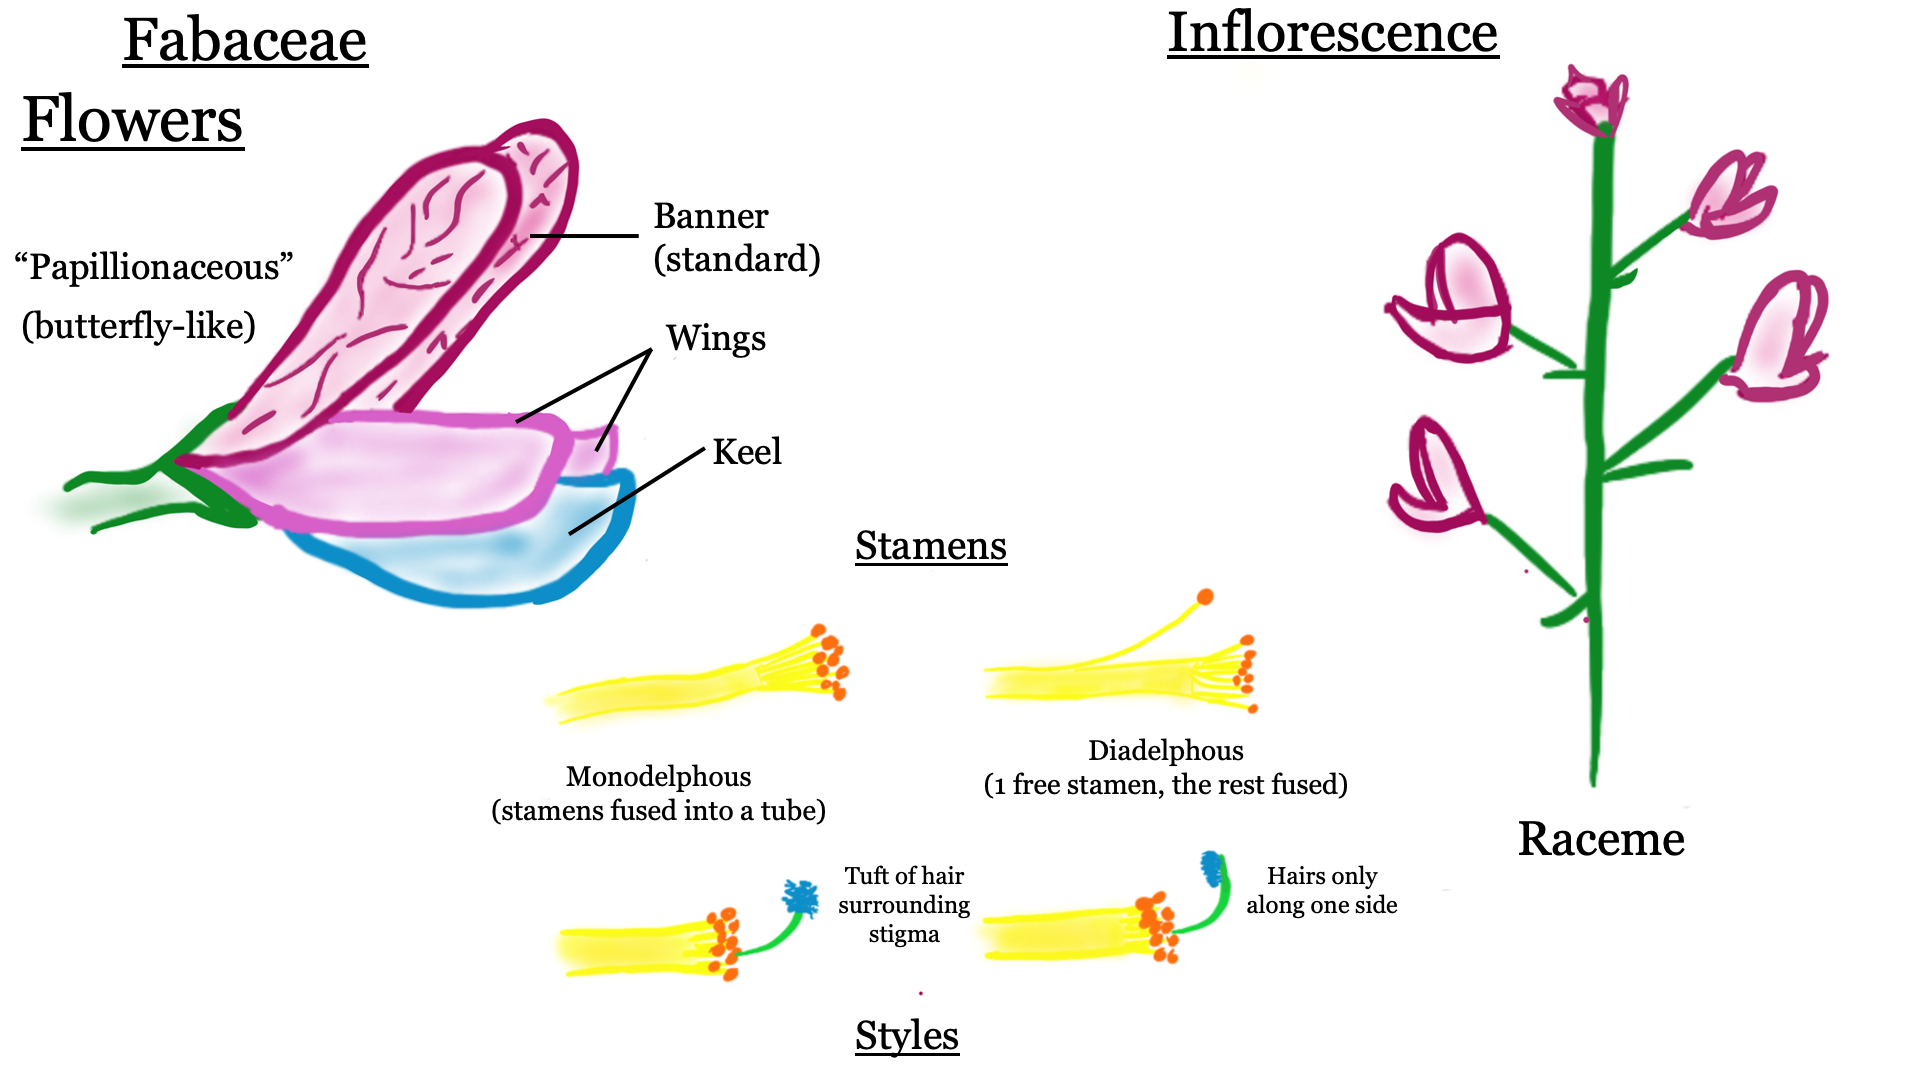
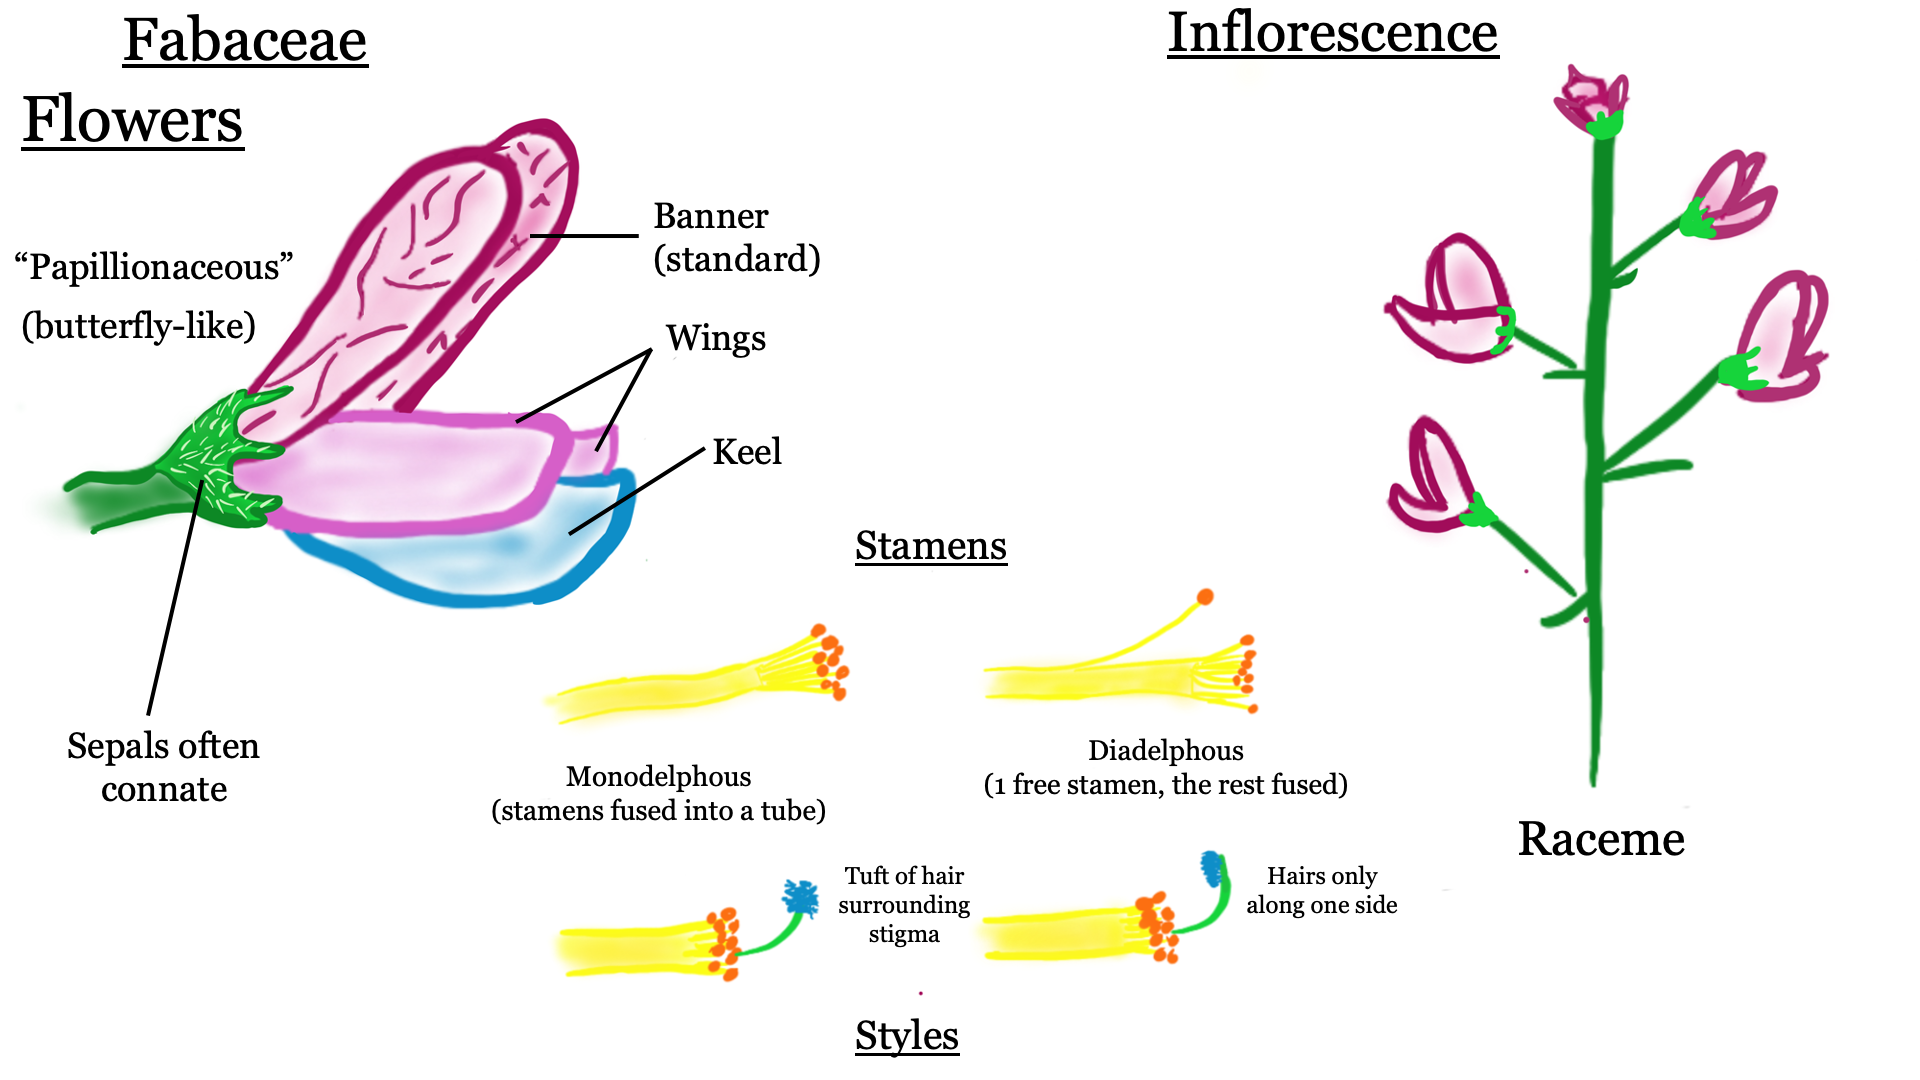
Small modifications to lab 4

diff --git a/docs/BIOL_324_Lab_4.html b/docs/BIOL_324_Lab_4.html
@@ -438,7 +438,7 @@ div.tocify {
 <img src="media/Fabaceae_1.jpeg" style="width:40.0%" /> <img src="media/Fabaceae_2.jpeg" style="width:40.0%" /> <img src="media/Fabaceae_3.jpeg" style="width:40.0%" /> <img src="media/Fabaceae_4.jpeg" style="width:40.0%" />
 </p>
 <p> </p>
-<p>Here are some more examples of papilionaceous flowers. While they all have banner, wing, and keel morphology, you can see that there is still quite a bit of variation amongst Fabaceae species. As you can see, the keel is quite often hidden from sight in between the wings.</p>
+<p>Here are some more examples of papilionaceous flowers (<em>Vicia</em> on the left, <em>Lathyrus</em> on the right). While they all have banner, wing, and keel morphology, you can see that there is still quite a bit of variation amongst Fabaceae species. As you can see, the keel is quite often hidden from sight in between the wings. Zoom in on <em>Vicia</em> sp. on the left - can you see the connate sepals hugging the bottom of the corolla?</p>
 <p align="center">
 <img src="media/Fabaceae_5.jpeg" style="width:40.0%" /> <img src="media/Fabaceae_7.jpeg" style="width:40.0%" /> <img src="media/Fabaceae_6.jpeg" style="width:40.0%" /> <img src="media/Fabaceae_8.jpeg" style="width:40.0%" />
 </p>
@@ -481,11 +481,15 @@ div.tocify {
 <img src="media/Fabaceae_24.jpeg" style="width:40.0%" /> <img src="media/Fabaceae_25.jpeg" style="width:40.0%" />
 </p>
 <p> </p>
+<p>Some genera produce “loments”, a modified legume that has crosswise segments (each containing one seed) that break off in pieces instead of dehiscing along two sutures like your typical legume. Below you can see photos of the loments of <em>Hedysarum hedysaroides</em> (left) and <em>Desmodium incanum</em> (right).</p>
+<p align="center">
+<img src="media/Fabaceae_26.jpg" style="width:40.0%" /> <img src="media/Fabaceae_27.jpg" style="width:40.0%" />
+</p>
 <hr />
 </div>
 <div id="knowledge-check-4.1-" class="section level2">
 <h2>-KNOWLEDGE CHECK 4.1-</h2>
-<p>Using the above pictures, draw a Fabaceae flower and fruit. Make sure to include the following:</p>
+<p>Using the above pictures, draw an representative Fabaceae flower and fruit (feel free to use your imagination). Make sure to include the following:</p>
 <ul>
 <li>Papilionaceous flower<br />
 </li>
@@ -493,7 +497,7 @@ div.tocify {
 </li>
 <li>Monodelphous or diadelphous stamens (label the type drawn)</li>
 <li>Legume (include a longitudinal section showing parts inside the fruit)</li>
-<li>Label your drawings with the following terms: banner, wing, keel, leaf, leaflet, petiole, rachis, tendrils (if present), ovary wall, seed, placenta, locule.</li>
+<li>Label your drawings with the following terms: sepals, banner, wing, keel, leaf, leaflet, petiole, rachis, tendrils (if present), ovary wall, seed, placenta, locule.</li>
 </ul>
 <p> </p>
 <hr />
@@ -577,11 +581,11 @@ div.tocify {
 </p>
 <p> </p>
 <hr />
-<p>Many members of the Rosaceae have drupes, defined as fruit where the fruit wall is made up of three layers: The outer skin (exocarp), middle fleshy bit (mesocarp), and the inner hard/woody shell (endocarp) that surrounds the seed. Some members of the family, like in the genus <em>Rubus</em> (blackberry), produce berries made up of dozens of tiny drupes, AKA an “aggregate of drupelets”.</p>
+<p>Many members of the Rosaceae have drupes, defined as fruit where the fruit wall is made up of three layers: The outer skin (exocarp), middle fleshy bit (mesocarp), and the inner hard/woody shell (endocarp) that surrounds the seed. Some members of the family, like in the genus <em>Rubus</em> (blackberry), produce “berries” made up of dozens of tiny drupes, AKA an “aggregate of drupelets”.</p>
 <p><img src="media/Rosaceae_28.png" style="width:100.0%" /></p>
 <p> </p>
 <hr />
-<p>A pome is a unique fruit type to the Rosaceae. A pome develops from a compound, inferior ovary and has seeds encased within a cartilaginous wall (known as the endocarp of the ovary), with most of the surrounding fleshy part of the fruit derived from the hypanthium, which is fused to the ovary. So when you chomp into a delicious apple, most of the tasty bits are actually hypanthium tissue instead of ovary wall like your typical fruit! Below you can see the pomes of <em>Pyrus</em> (apple and pear - top) and <em>Sorbus</em> (mountain ash - bottom).</p>
+<p>A pome is a unique fruit type to the Rosaceae. A pome develops from a compound, inferior ovary and has seeds encased within a cartilaginous wall (known as the endocarp of the ovary), with most of the surrounding fleshy part of the fruit derived from the hypanthium, which is fused to the ovary. So when you chomp into a delicious apple, most of the tasty bits are actually hypanthium tissue instead of ovary wall like your typical fruit! Below you can see the pomes of <em>Malus</em> (apple - top) and <em>Sorbus</em> (mountain ash - bottom).</p>
 <p align="center">
 <img src="media/Rosaceae_23.jpeg" style="width:40.0%" /> <img src="media/Rosaceae_24.jpeg" style="width:40.0%" /> <img src="media/Rosaceae_25.jpeg" style="width:40.0%" /> <img src="media/Rosaceae_26.jpeg" style="width:40.0%" />
 </p>
@@ -590,7 +594,7 @@ div.tocify {
 </div>
 <div id="knowledge-check-4.2-" class="section level2">
 <h2>-KNOWLEDGE CHECK 4.2-</h2>
-<p>Using the above photos, make drawings of a Roseaceae flower and fruit. Make sure to include the following:</p>
+<p>Using the above photos, make drawings of a Rosaceae flower and fruit (use your imagination). Make sure to include the following:</p>
 <ul>
 <li>Flower with shallow hypanthium</li>
 <li>Toothed leaves with stipules<br />
@@ -598,7 +602,7 @@ div.tocify {
 <li>“Spiky” bits. Make sure to indicate whether they are prickles, spines, or thorns…<br />
 </li>
 <li>A drawing of a developed fruit. Indicate the fruit type.</li>
-<li>Label your drawings with the following (if present): sepals, petals, stamens, hypanthium, leaf, leaflet, petiole, rachis, stipules, spines, prickles, thorns, achene, pome, follicle, drupe.</li>
+<li>Label your drawings with the following (if present): sepals, petals, stamens, ovary, hypanthium, leaf (indicate type), petiole, rachis, stipules, spines, prickles, thorns, achene, pome, follicle, drupe.</li>
 </ul>
 <hr />
 </div>
